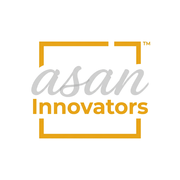
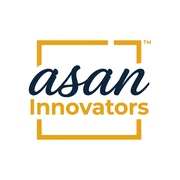
fix(founder): use the real Asan mark, not a muted grey substitute
The logo asset used throughout (asan_logo.png in the telecaller app's own
assets) renders the "asan" script at a flat light grey (#CFCFCF) — every
LeadPilot placement built from it inherited that same muted look. The
canonical export (asan_logo.jpg, same source art) shows the script at full
white opacity, crisp and legible; the grey was never the intended
treatment, just what happened to be closest at hand.

Recolors just the script pixels (saturation-thresholded, gold bracket and
"Innovators" text untouched) into two variants, since a single fixed color
can't work on both grounds — white only reads on dark:

- asan-mark-dark.png (white script) — AuthShell + onboarding hero panels,
  both on navy
- asan-mark-light.png (navy #0E263B script, matching the site's own ink
  color) — Topbar, and the new source for favicon/icon.png/apple-icon.png,
  all on white

Changed region(s): [[0.1389, 0.2222, 0.8611, 0.7778]]

diff --git a/apps/founder/src/components/auth/AuthShell.tsx b/apps/founder/src/components/auth/AuthShell.tsx
@@ -22,7 +22,7 @@ export function AuthShell({
 
         <div className="relative flex items-center justify-between">
           <div className="flex items-center gap-2.5">
-            <img src="/asan-mark.png" alt="" className="h-8 w-auto shrink-0" />
+            <img src="/asan-mark-dark.png" alt="" className="h-8 w-auto shrink-0" />
             <span className="text-base font-bold text-white">LeadPilot</span>
           </div>
           <span className="rounded-full border border-gold-400/20 bg-gold-400/[0.08] px-2.5 py-1 text-[10px] font-semibold uppercase tracking-wider text-gold-300/90">

diff --git a/apps/founder/src/components/layout/Topbar.tsx b/apps/founder/src/components/layout/Topbar.tsx
@@ -201,7 +201,7 @@ export function Topbar({ onMenuClick }: { onMenuClick?: () => void }) {
         >
           <Menu className="size-5" />
         </button>
-        <img src="/asan-mark.png" alt="" className="h-7 w-auto shrink-0" />
+        <img src="/asan-mark-light.png" alt="" className="h-7 w-auto shrink-0" />
         <span className="truncate text-sm font-bold text-slate-900">LeadPilot</span>
         <span className="hidden shrink-0 rounded-md bg-slate-100 px-1.5 py-0.5 text-[10px] font-semibold uppercase text-slate-500 sm:inline">
           Founder

diff --git a/apps/founder/src/app/onboarding/page.tsx b/apps/founder/src/app/onboarding/page.tsx
@@ -250,7 +250,7 @@ export default function OnboardingPage() {
         <div className="pointer-events-none absolute -bottom-32 -right-16 size-80 rounded-full bg-gold-600/[0.06] blur-3xl" />
 
         <div className="relative flex items-center gap-2.5">
-          <img src="/asan-mark.png" alt="" className="h-8 w-auto shrink-0" />
+          <img src="/asan-mark-dark.png" alt="" className="h-8 w-auto shrink-0" />
           <span className="text-base font-bold text-white">LeadPilot</span>
         </div>
 
